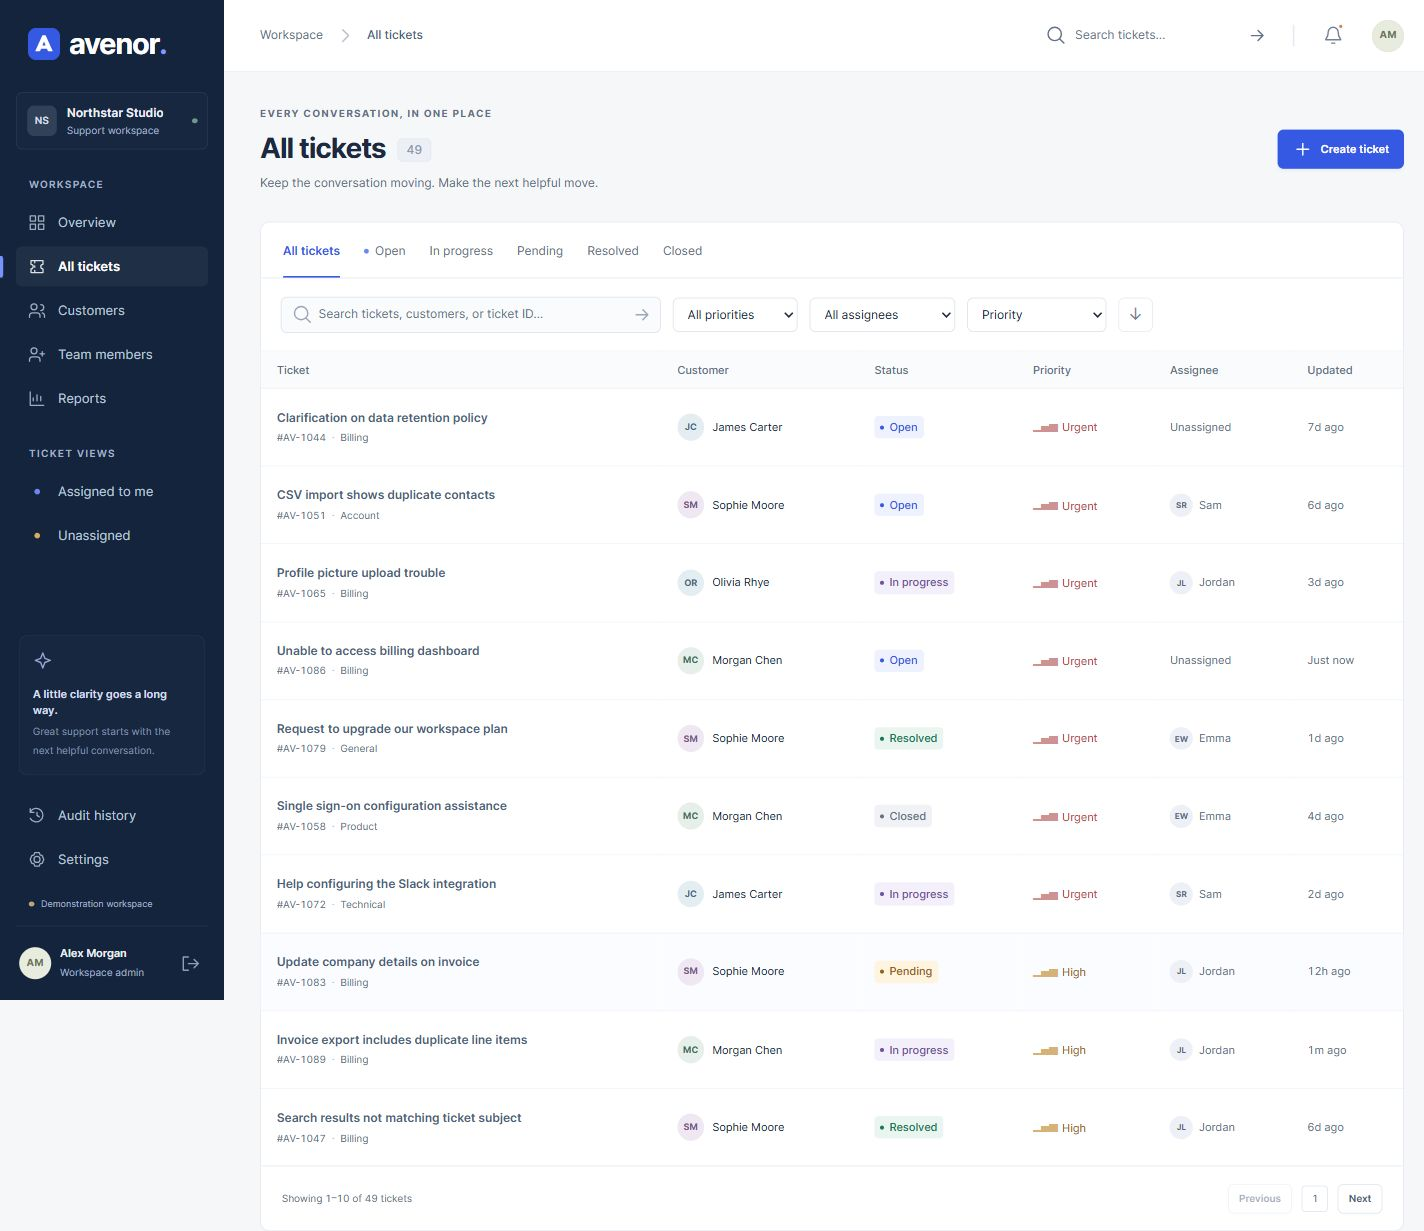
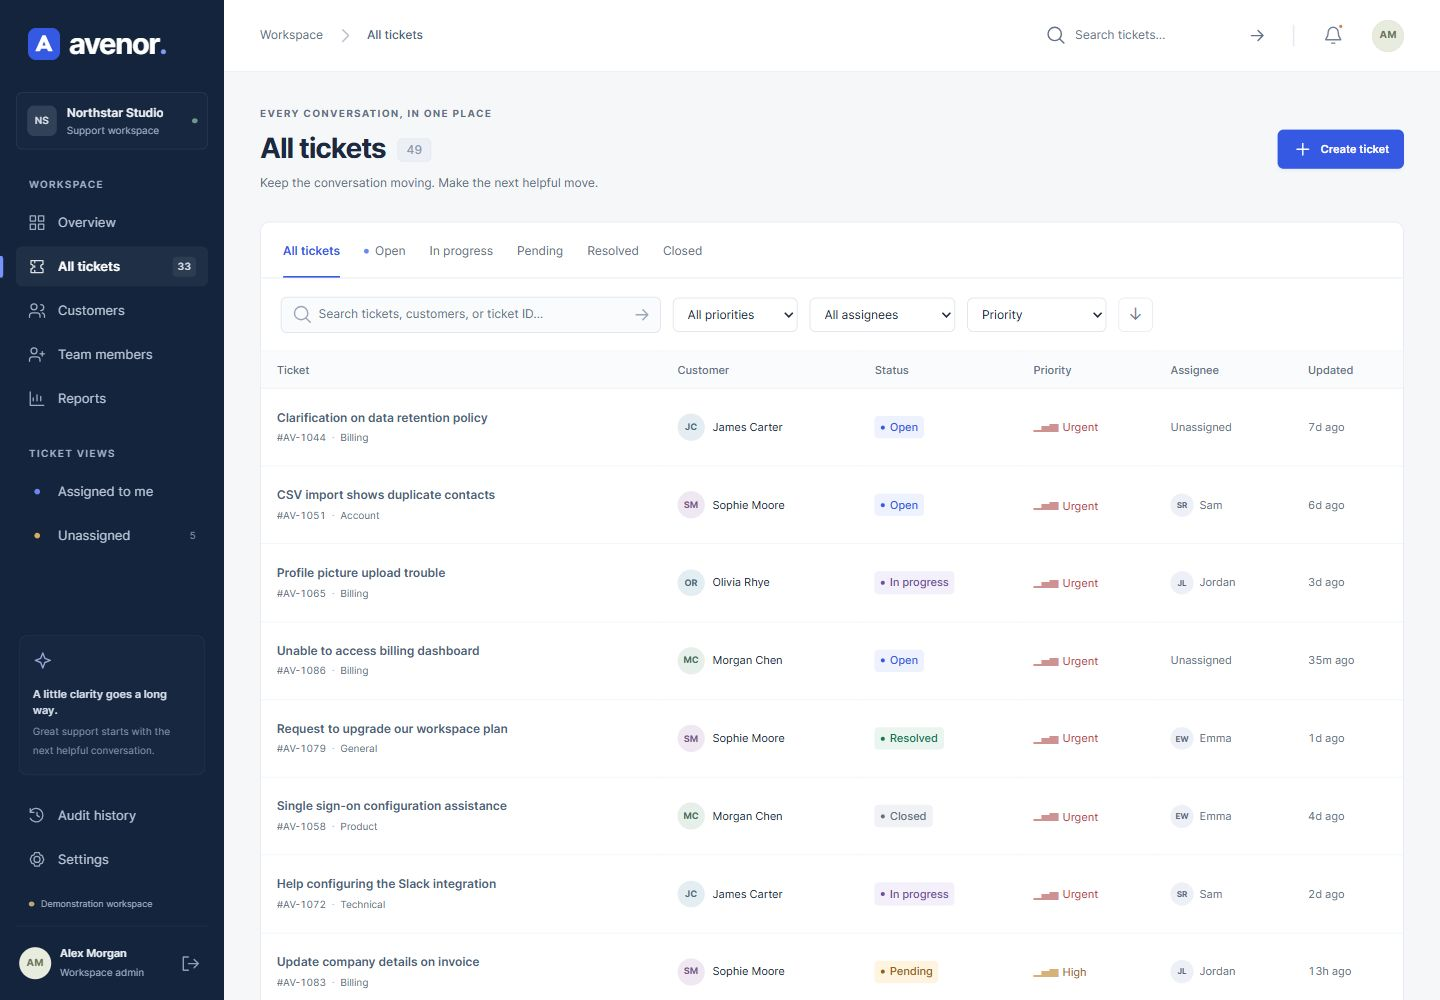
Fix sidebar overflow and refresh viewport screenshots

diff --git a/frontend/src/styles.css b/frontend/src/styles.css
@@ -195,6 +195,10 @@
     flex-direction: column;
     padding: 28px 16px 0;
     z-index: 30;
+    overflow-y: auto;
+    overscroll-behavior-y: contain;
+    scrollbar-width: thin;
+    scrollbar-color: #41516a var(--navy);
   }
   .brand {
     display: flex;

diff --git a/docs/VERIFICATION.md b/docs/VERIFICATION.md
@@ -17,7 +17,7 @@ Observed on **22 October 2026 (Africa/Cairo)**. These are actual local results, 
 | `dotnet test Avenor.sln --no-restore` | PASS, 25 tests, none skipped |
 | `./scripts/verify.ps1` | PASS end to end: Release backend build/tests, Angular production build, frontend tests |
 | `./scripts/dev.ps1 -NoInstall` | PASS, API and Angular served successfully; Ctrl+C stopped both ports (5080 and 4200) |
-| Angular production build | PASS, strict templates/types; final bundle 347.99 kB raw / 88.56 kB estimated transfer |
+| Angular production build | PASS, strict templates/types; current bundle 348.09 kB raw / 88.59 kB estimated transfer |
 | `npm test` | PASS, 10 tests, none skipped |
 | `python scripts/smoke.py http://127.0.0.1:4200` | PASS, all eight workflow groups through the actual Angular proxy/API/database |
 | `npm audit` | 0 reported vulnerabilities after targeted compatible build-tool patches |
@@ -53,6 +53,17 @@ Authentic JPEG screenshots are stored in `docs/assets/` and referenced relativel
 ## Corrections discovered during verification
 
 Resolved duplicate opening messages, an EF assignment navigation consistency issue, SQL retry/explicit transaction incompatibility, malformed payload errors, contrast failures, incorrect mobile heading spacing, and stale asynchronous responses after session/filter changes. Additional regression cases cover relevant business/security behavior. Closed mobile navigation is removed from keyboard/accessibility visibility.
+
+### Sidebar and screenshot correction · 22 October 2026
+
+The original full-page desktop captures extended beyond the browser's 1000px viewport, while the fixed sidebar correctly covered only the viewport. This produced a misleading blank area beneath the navigation in the saved images. Recaptured overview, queue, ticket detail, reports and administration directly from the running app within the actual 1440×1000 viewport bounds. No sidebar pixels were fabricated or extended.
+
+Also fixed a real short-screen issue: navigation content exceeded its viewport without an internal scrollbar. The sidebar now scrolls vertically and contains its overscroll. Browser geometry confirmed:
+
+- Desktop 1440×1000: sidebar top 0, bottom 1000, both at page top and after scrolling the document to its bottom.
+- Short desktop 1440×768: content height 953px; scrolling the sidebar brought the profile's bottom to 768px.
+- Mobile drawer 390×667: scrolling brought the profile's bottom to 666.8px, within the visible viewport.
+- Angular production build passes after the CSS change. No business logic or backend changes were made.
 
 ## Limits and unverified work
 

diff --git a/README.md b/README.md
@@ -11,7 +11,7 @@
 
 ![Avenor overview with live ticket metrics, activity, service health and team workload](docs/assets/dashboard.jpg)
 
-All screenshots below were captured from the running Angular application connected to the real API and relational demonstration database.
+All screenshots below were captured from the running Angular application connected to the real API and relational demonstration database. Desktop images show the actual browser viewport, including its full-height fixed navigation.
 
 | Sign in | Ticket queue |
 |---|---|
